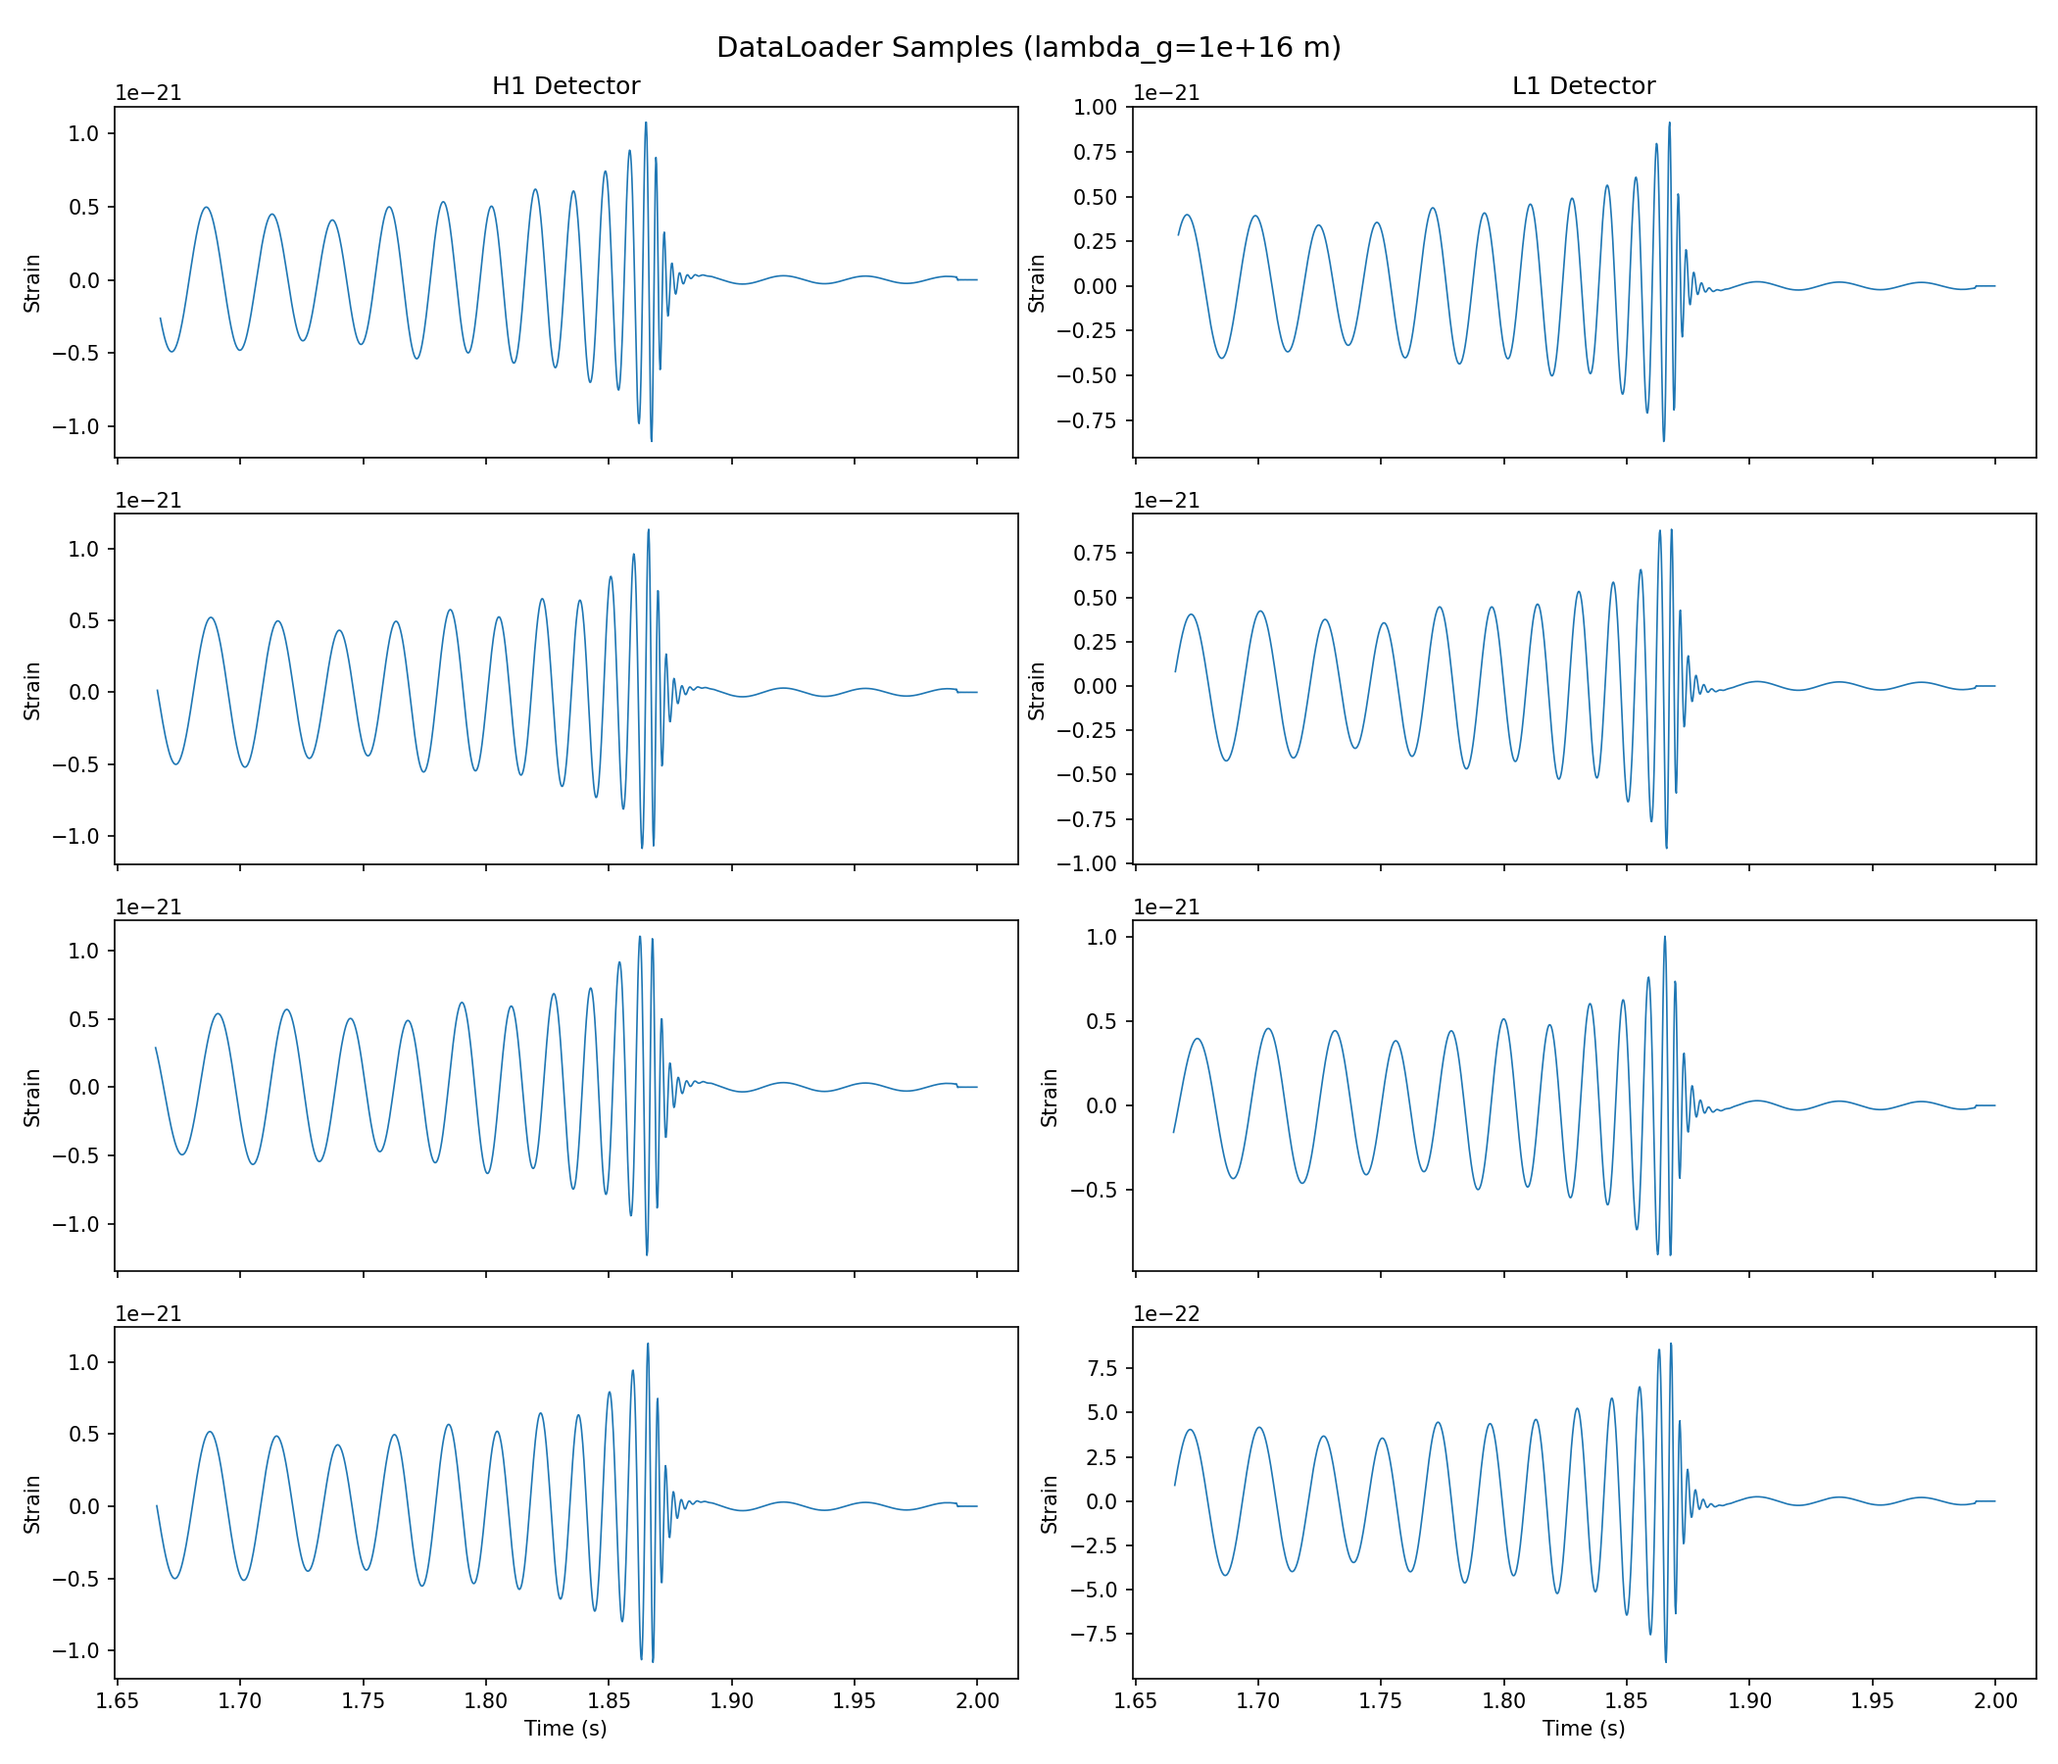
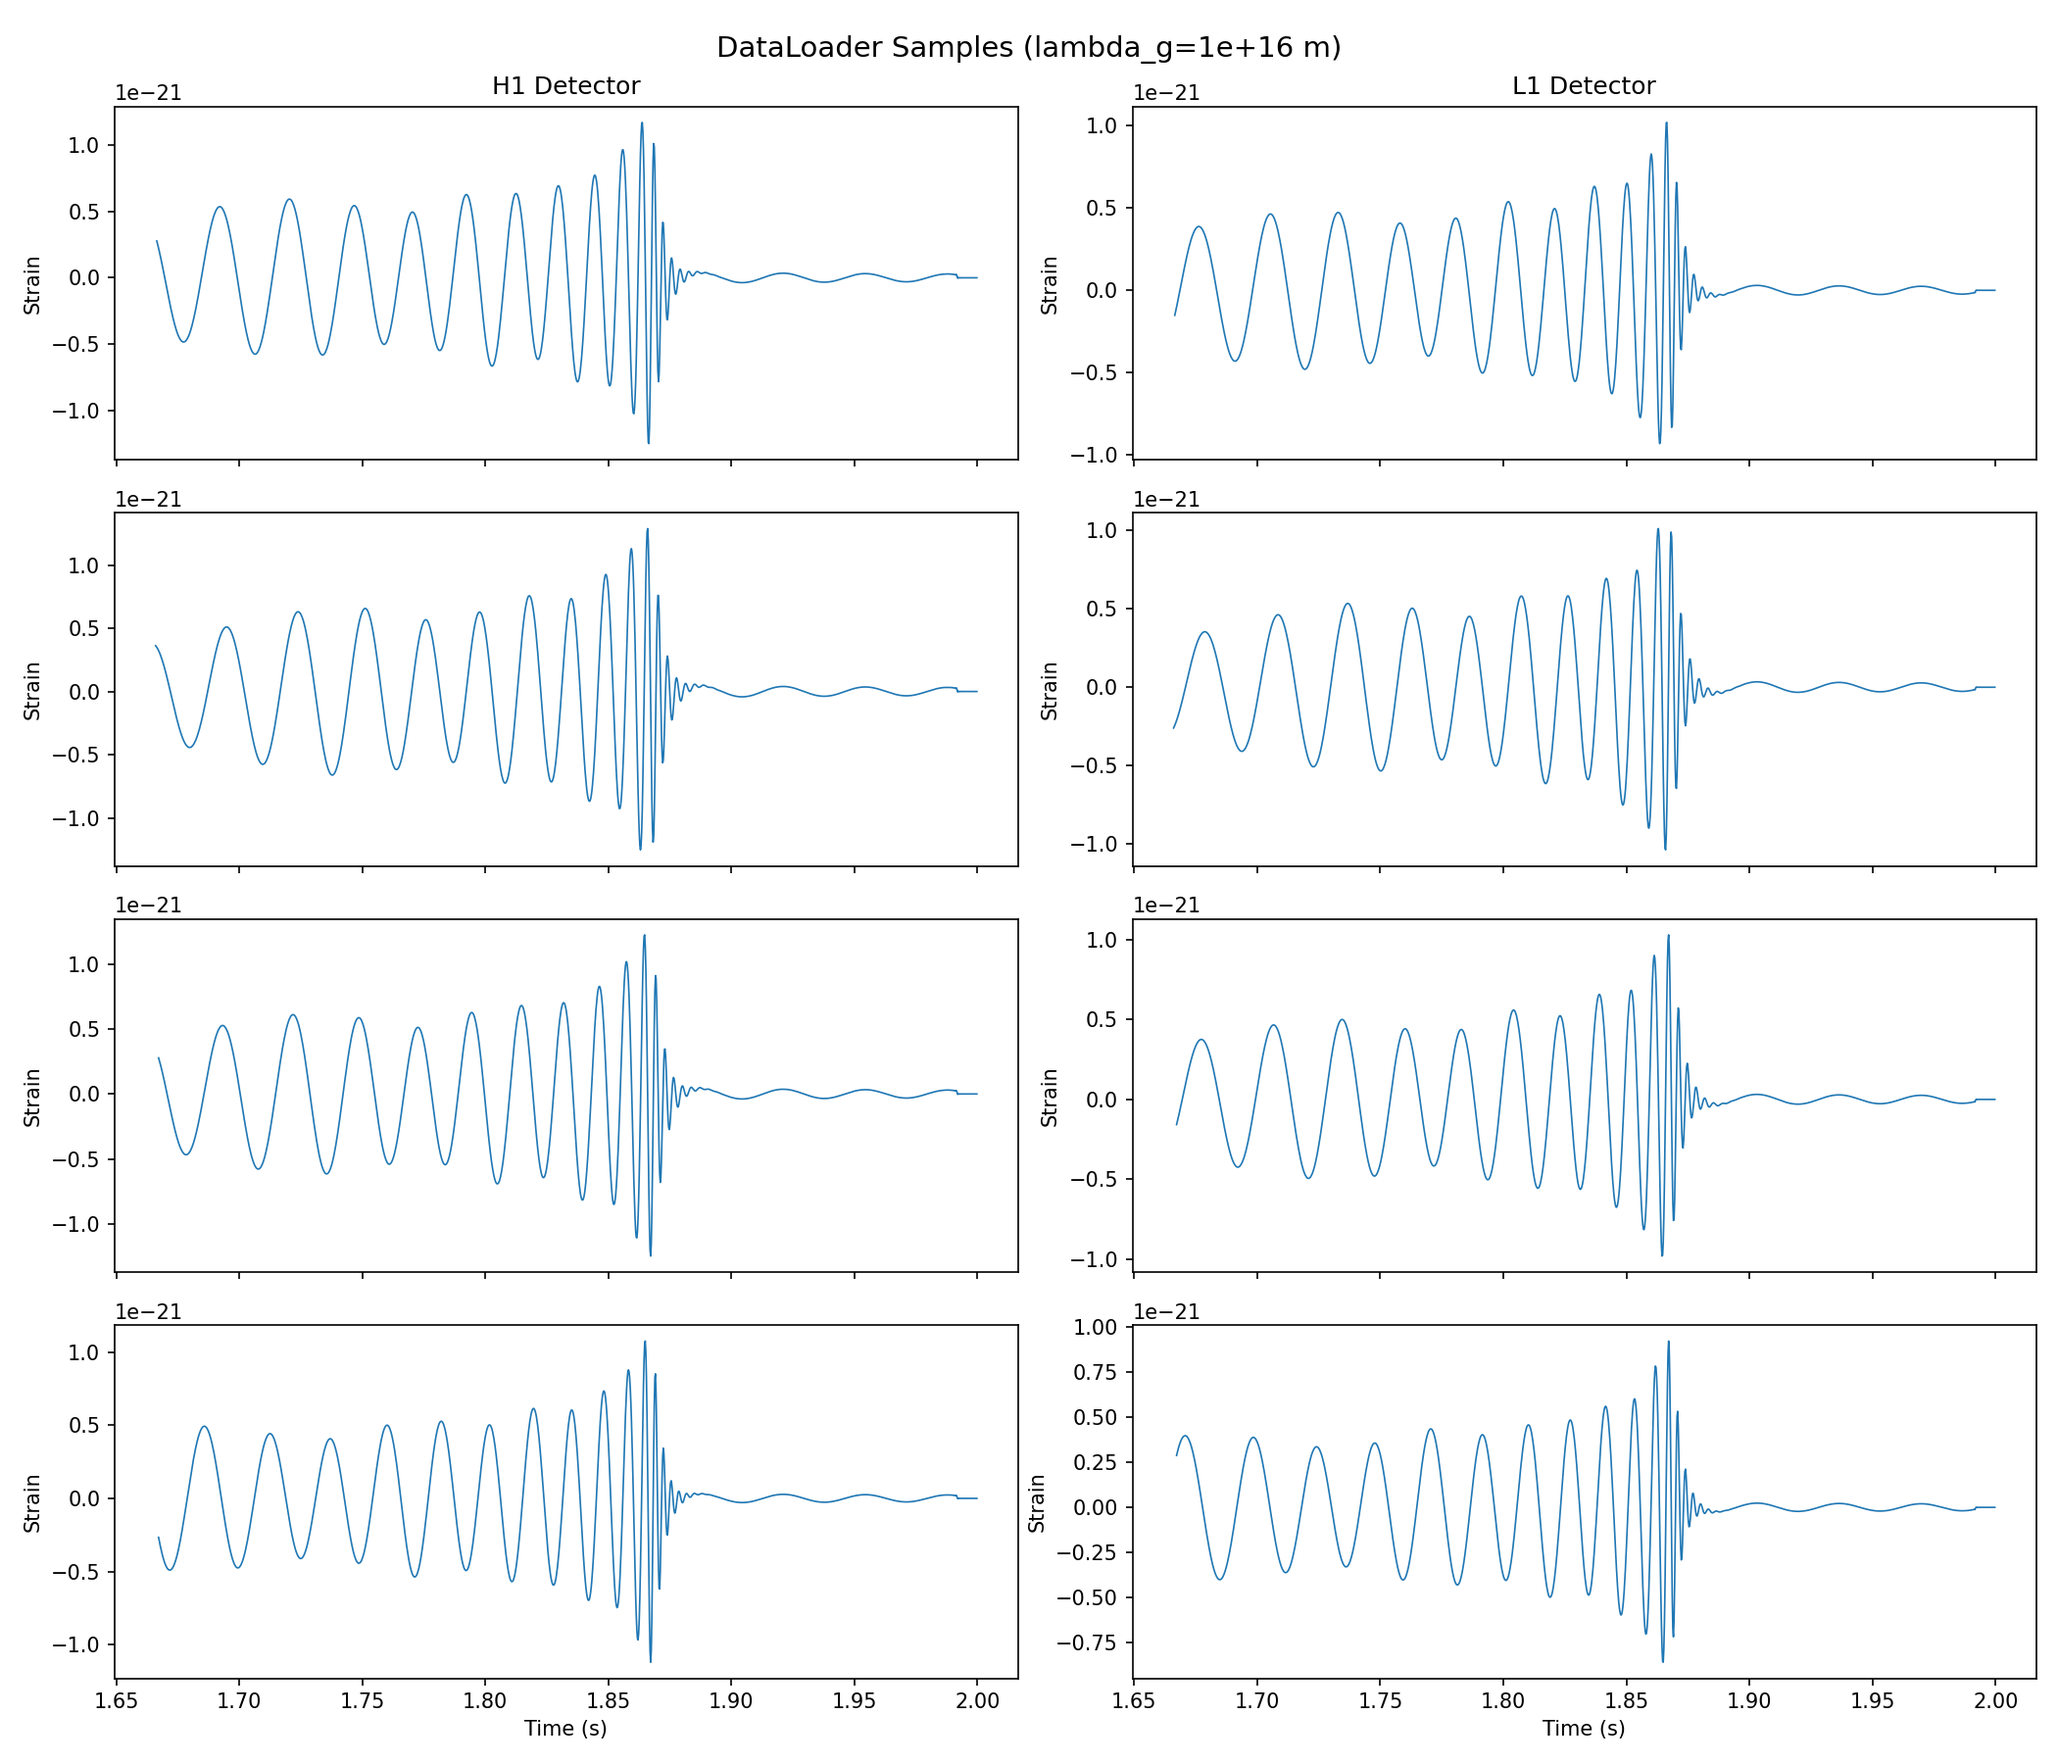
Updated to include extra "constant" terms and updated logic for finding f_c

diff --git a/modified waveforms.py b/modified waveforms.py
@@ -26,14 +26,15 @@ def D_alpha(alpha, z):
     integrand = quad(lambda z_prime: (1 + z_prime)**(alpha - 2) / np.sqrt(OMEGA_M * (1 + z_prime)**3 + OMEGA_LAMBDA), 0, z)
     return C * (1 + z) / H0 * integrand[0]  # returns distance in metres
 
-def additional_phase(freqs, chirp_mass, z, lambda_g, mass1, mass2):
+def additional_phase(freqs, chirp_mass, z, lambda_g, f_c):
     M = chirp_mass * M_SUN_SEC * (1 + z)  # chirp mass in seconds (geometrized)
     u = np.pi * M * freqs                 
 
-    beta = np.pi**2 * C * D_alpha(0, z) * M / (lambda_g**2 * (1 + z))# + 5/96 * (743/336 + 11/4 * nu) * nu**(-2/5) * u**(-1) - 3/8 * np.pi * nu**(-3/5) * u**(-2/3)
-    # PN correction terms removed — already included in IMRPhenomD:
+    beta = np.pi**2 * C * D_alpha(0, z) * M / (lambda_g**2 * (1 + z)) 
+    constant_terms = -1  * np.pi * D_alpha(0, z)/ ((1 + z) * lambda_g**2 * f_c**2) + np.pi * D_alpha(0, z) / (lambda_g**2 * (1 + z) * f_c)
+    
 
-    delta_psi = -beta * u**(-1)
+    delta_psi = -beta * u**(-1) + constant_terms
     return delta_psi
 
 # Generate a compact binary merger waveform in the frequency domain
@@ -62,10 +63,9 @@ phase_info = normalise(hp.numpy()[1:])
 
 chirp_mass = (M1 * M2) **(3/5) / (M1 + M2)**(1/5)
 
-phase_shift = additional_phase(freqs, chirp_mass=chirp_mass, z=0.1, lambda_g=lambda_g, mass1=M1, mass2=M2)
+phase_shift = additional_phase(freqs, chirp_mass=chirp_mass, z=0.1, lambda_g=lambda_g, f_c=max(freqs[np.nonzero(np.abs(hp.numpy()[1:]))]))
 
 modified_phase_info = phase_info * np.exp(1j * phase_shift)
-
 
 
 plt.figure(figsize=(10, 5))
@@ -105,7 +105,7 @@ plt.figure(figsize=(10, 5))
 plt.plot(time[t_start:t_end], hp_td[t_start:t_end], label="GR", color="black", linewidth=1.5)
 
 for lg in lambda_g_values:
-    ps = additional_phase(freqs, chirp_mass=chirp_mass, z=0.1, lambda_g=lg, mass1=M1, mass2=M2)
+    ps = additional_phase(freqs, chirp_mass=chirp_mass, z=0.1, lambda_g=lg, f_c=max(freqs))
     mod = phase_info * np.exp(1j * ps)
     mod_td = np.fft.irfft(np.concatenate(([0], mod)))
     plt.plot(time[t_start:t_end], mod_td[t_start:t_end], label=f"$\\lambda_g = 10^{{{int(np.log10(lg))}}}$ m", alpha=0.7)
@@ -117,22 +117,5 @@ plt.legend(loc="upper left", fontsize="small")
 plt.tight_layout()
 plt.savefig("lambda_g_scan.png")
 
-# This is for general theories, doing massive graviton first
-# def D_alpha(alpha, z):
-#     intergrand = quad(lambda z_prime: (1 + z_prime)**(alpha - 2) / np.sqrt(OMEGA_M * (1 + z_prime)**3 + OMEGA_LAMBDA), 0, z)
-#     return (1 + z)/HUBBLE_CONSTANT * intergrand[0]
-
-# def additional_phase(freq, alpha, chirp_mass, z, luminosity_distance, lambda_g):
-#     M = chirp_mass * (1 + z)
-#     u = np.pi * M * freq
-    
-#     beta = np.pi**2 * D_alpha(0, z) * M/ (lambda_g**2 * (1 + z))
-    
-    
-    
-#     if alpha == 1:
-#         ValueError("Not implimented for alpha=1")
-#     else:
-#         c = 
 
 

diff --git a/test_phase_shift.py b/test_phase_shift.py
@@ -1,6 +1,7 @@
 """Diagnostic: scan lambda_g values and check if the phase shift changes."""
 import numpy as np
 from scipy.integrate import quad
+from pycbc.waveform import get_fd_waveform
 
 C = 2.998e8                          # speed of light, m/s
 G = 6.674e-11                        # gravitational constant, m^3 kg^-1 s^-2
@@ -17,17 +18,27 @@ def D_alpha(alpha, z):
     integrand = quad(lambda z_prime: (1 + z_prime)**(alpha - 2) / np.sqrt(OMEGA_M * (1 + z_prime)**3 + OMEGA_LAMBDA), 0, z)
     return C * (1 + z) / H0 * integrand[0]  # metres
 
-def additional_phase(freqs, chirp_mass, z, lambda_g, mass1, mass2):
+def additional_phase(freqs, chirp_mass, z, lambda_g, f_c):
     M = chirp_mass * M_SUN_SEC * (1 + z)  # seconds
     u = np.pi * M * freqs                 # dimensionless
     beta = np.pi**2 * C * D_alpha(0, z) * M / (lambda_g**2 * (1 + z))  # dimensionless
-    delta_psi = -beta * u**(-1)
+    constant_terms = (-1 * np.pi * D_alpha(0, z) / ((1 + z) * lambda_g**2 * f_c**2)
+                      + np.pi * D_alpha(0, z) / (lambda_g**2 * (1 + z) * f_c))
+    delta_psi = -beta * u**(-1) + constant_terms
     return delta_psi
 
 chirp_mass = (M1 * M2)**(3/5) / (M1 + M2)**(1/5)
 z = 0.1
 test_freq = 100.0
 freqs = np.array([test_freq])
+
+# Generate waveform to derive f_c from non-zero amplitude range
+hp_fd, _ = get_fd_waveform(
+    approximant='IMRPhenomD', mass1=M1, mass2=M2,
+    delta_f=1.0/256, f_lower=30.0, f_final=2048.0, distance=410.0
+)
+fd_freqs = hp_fd.sample_frequencies.numpy()[1:]
+f_c = float(np.max(fd_freqs[np.nonzero(np.abs(hp_fd.numpy()[1:]))]))
 
 # Break down the three terms separately (with correct units)
 M = chirp_mass * M_SUN_SEC * (1 + z)  # seconds
@@ -60,7 +71,9 @@ for lambda_g in [1e10, 1e12, 1e14, 1e16, 1e18, 1e20, np.inf]:
         beta_term = 0.0
     else:
         beta = np.pi**2 * C * D * M / (lambda_g**2 * (1 + z))
-        beta_term = -beta * u**(-1)
+        constant_terms = (-1 * np.pi * D / ((1 + z) * lambda_g**2 * f_c**2)
+                          + np.pi * D / (lambda_g**2 * (1 + z) * f_c))
+        beta_term = -beta * u**(-1) + constant_terms
     total = beta_term + pn_term1 + pn_term2
     if total != 0:
         pct = abs(beta_term / total) * 100
@@ -72,8 +85,8 @@ print()
 print("=== Key insight ===")
 gr_phase = pn_term1 + pn_term2
 print(f"Phase with lambda_g=inf (GR limit): {gr_phase:.6e}")
-print(f"Phase with lambda_g=1e16:           {additional_phase(freqs, chirp_mass, z, 1e16, M1, M2)[0]:.6e}")
-print(f"Phase with lambda_g=1e12:           {additional_phase(freqs, chirp_mass, z, 1e12, M1, M2)[0]:.6e}")
+print(f"Phase with lambda_g=1e16:           {additional_phase(freqs, chirp_mass, z, 1e16, f_c)[0]:.6e}")
+print(f"Phase with lambda_g=1e12:           {additional_phase(freqs, chirp_mass, z, 1e12, f_c)[0]:.6e}")
 print()
 
 if abs(pn_term1 + pn_term2) > 0:

diff --git a/JHPY.py b/JHPY.py
@@ -70,13 +70,15 @@ def _D_alpha(alpha, z):
     return _C * (1 + z) / _H0 * integrand_result[0]
 
 
-def _additional_phase(freqs, chirp_mass, z, lambda_g):
+def _additional_phase(freqs, chirp_mass, z, lambda_g, f_c):
     """
     Compute massive graviton phase shift for a frequency array.
 
-    Implements delta_Psi = -beta * u^{-1} where beta encodes the graviton
-    Compton wavelength and cosmological distance. PN correction terms are
-    NOT included -- they are already in IMRPhenomD/IMRPhenomXP.
+    Implements delta_Psi = -beta * u^{-1} + constant_terms where beta
+    encodes the graviton Compton wavelength and cosmological distance.
+    The constant terms ensure the phase shift vanishes at the cutoff
+    frequency f_c. PN correction terms are NOT included -- they are
+    already in IMRPhenomD/IMRPhenomXP.
 
     Parameters
     ----------
@@ -88,6 +90,8 @@ def _additional_phase(freqs, chirp_mass, z, lambda_g):
         Source redshift.
     lambda_g : float
         Graviton Compton wavelength in metres.
+    f_c : float
+        Cutoff frequency in Hz (typically the maximum frequency).
 
     Returns
     -------
@@ -97,7 +101,9 @@ def _additional_phase(freqs, chirp_mass, z, lambda_g):
     M = chirp_mass * _M_SUN_SEC * (1 + z)   # chirp mass in seconds
     u = np.pi * M * freqs                    # dimensionless PN parameter
     beta = np.pi**2 * _C * _D_alpha(0, z) * M / (lambda_g**2 * (1 + z))
-    delta_psi = -beta * u**(-1)
+    constant_terms = (-1 * np.pi * _D_alpha(0, z) / ((1 + z) * lambda_g**2 * f_c**2)
+                      + np.pi * _D_alpha(0, z) / (lambda_g**2 * (1 + z) * f_c))
+    delta_psi = -beta * u**(-1) + constant_terms
     return delta_psi
 
 
@@ -905,7 +911,9 @@ def _generate_single_modified_waveform(params: Dict, time_resolution: float,
 
         freqs = hp_fd.sample_frequencies.numpy()[1:]
         lg = params.get('lambda_g', lambda_g)  # per-sample overrides function-level
-        phase_shift = _additional_phase(freqs, chirp_mass, z, lg)
+        hp_fd_amp = np.abs(hp_fd.numpy()[1:])
+        f_c = float(np.max(freqs[np.nonzero(hp_fd_amp)]))  # max freq with non-zero amplitude
+        phase_shift = _additional_phase(freqs, chirp_mass, z, lg, f_c)
 
         hp_array = hp_fd.numpy().copy()
         hc_array = hc_fd.numpy().copy()

diff --git a/test_modified_waveforms.py b/test_modified_waveforms.py
@@ -64,20 +64,30 @@ def test_D_alpha():
 def test_additional_phase():
     print("\n=== Test 2: _additional_phase ===")
 
+    from pycbc.waveform import get_fd_waveform
+
+    # Generate a waveform to get f_c from the non-zero amplitude range
+    hp_fd, _ = get_fd_waveform(
+        approximant='IMRPhenomD', mass1=30.0, mass2=30.0,
+        delta_f=1.0/256, f_lower=30.0, f_final=2048.0, distance=410.0
+    )
+    fd_freqs = hp_fd.sample_frequencies.numpy()[1:]
+    f_c = float(np.max(fd_freqs[np.nonzero(np.abs(hp_fd.numpy()[1:]))]))
+
     freqs = np.array([100.0])
     chirp_mass = (30 * 30)**(3/5) / (30 + 30)**(1/5)
 
-    ps1 = _additional_phase(freqs, chirp_mass, 0.1, 1e16)[0]
-    ps2 = _additional_phase(freqs, chirp_mass, 0.1, 1e15)[0]
+    ps1 = _additional_phase(freqs, chirp_mass, 0.1, 1e16, f_c)[0]
+    ps2 = _additional_phase(freqs, chirp_mass, 0.1, 1e15, f_c)[0]
     ratio = ps2 / ps1
     report("Phase scales as 1/lambda_g^2 (ratio ~ 100)", abs(ratio - 100) < 1,
            f"ratio={ratio:.2f}")
 
-    ps_gr = _additional_phase(freqs, chirp_mass, 0.1, 1e30)[0]
+    ps_gr = _additional_phase(freqs, chirp_mass, 0.1, 1e30, f_c)[0]
     report("GR limit (lambda_g=1e30): phase ~ 0", abs(ps_gr) < 1e-20,
            f"got {ps_gr:.6e}")
 
-    ps_small = _additional_phase(freqs, chirp_mass, 0.1, 1e13)[0]
+    ps_small = _additional_phase(freqs, chirp_mass, 0.1, 1e13, f_c)[0]
     report("Small lambda_g gives large phase shift", abs(ps_small) > abs(ps1),
            f"|{ps_small:.4e}| > |{ps1:.4e}|")
 
@@ -346,8 +356,8 @@ def plot_lambda_g_scan(gr_result, scan_results):
         axes[idx].plot(time[t_start:t_end], gr_sig[t_start:t_end],
                        label="GR", color='black', linewidth=1.5)
 
-        colors = plt.cm.viridis(np.linspace(0.2, 0.9, len(scan_results)))
-        for (lg, r), c in zip(sorted(scan_results.items()), colors):
+        scan_colors = ['tab:red', 'tab:blue', 'tab:orange', 'tab:green', 'tab:purple']
+        for (lg, r), c in zip(sorted(scan_results.items()), scan_colors):
             sig = np.array(r['detectors'][det])
             axes[idx].plot(time[t_start:t_end], sig[t_start:t_end],
                           label=f"$\\lambda_g = 10^{{{int(np.log10(lg))}}}$ m",
